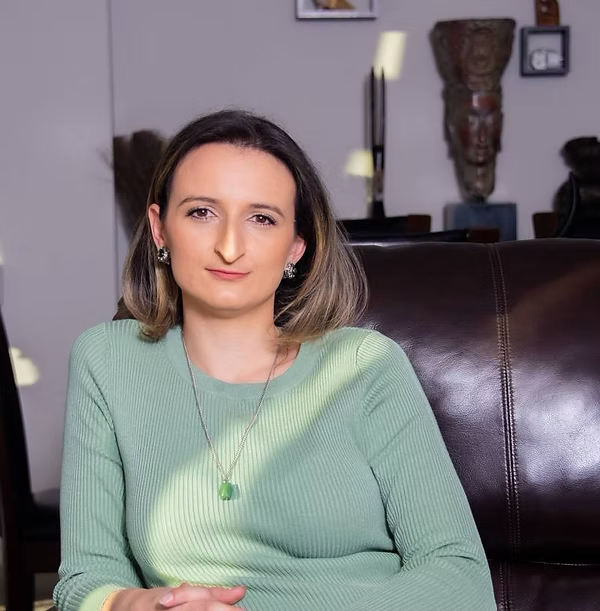
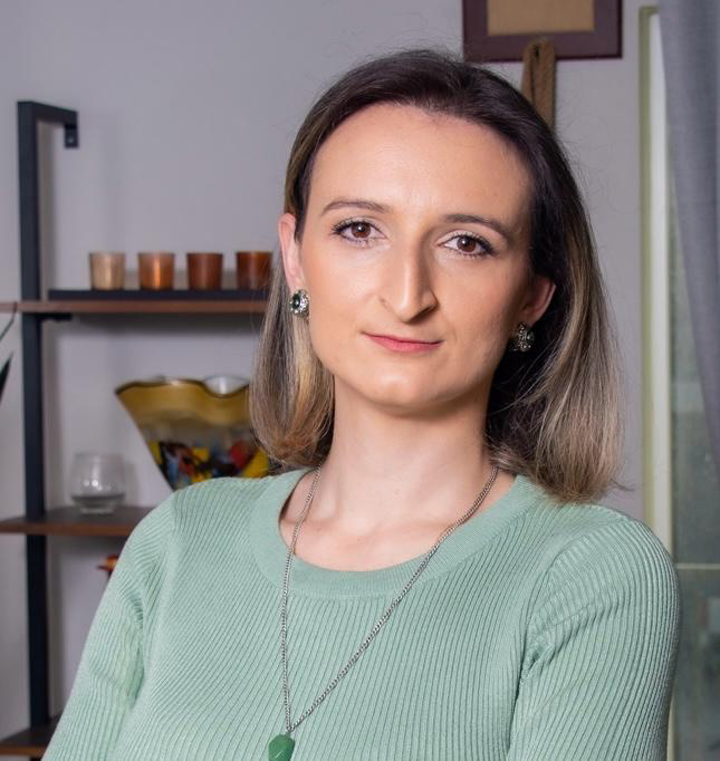
Update homepage hero with new Sara headshot.

diff --git a/index.html b/index.html
@@ -200,8 +200,8 @@
               <img
                 src="assets/sara-home.png"
                 alt="Sara Tudor, founder of Grow2Guide"
-                width="800"
-                height="1000"
+                width="720"
+                height="761"
                 class="w-full h-auto object-cover object-center max-h-[520px] lg:max-h-none"
                 loading="eager"
               />
